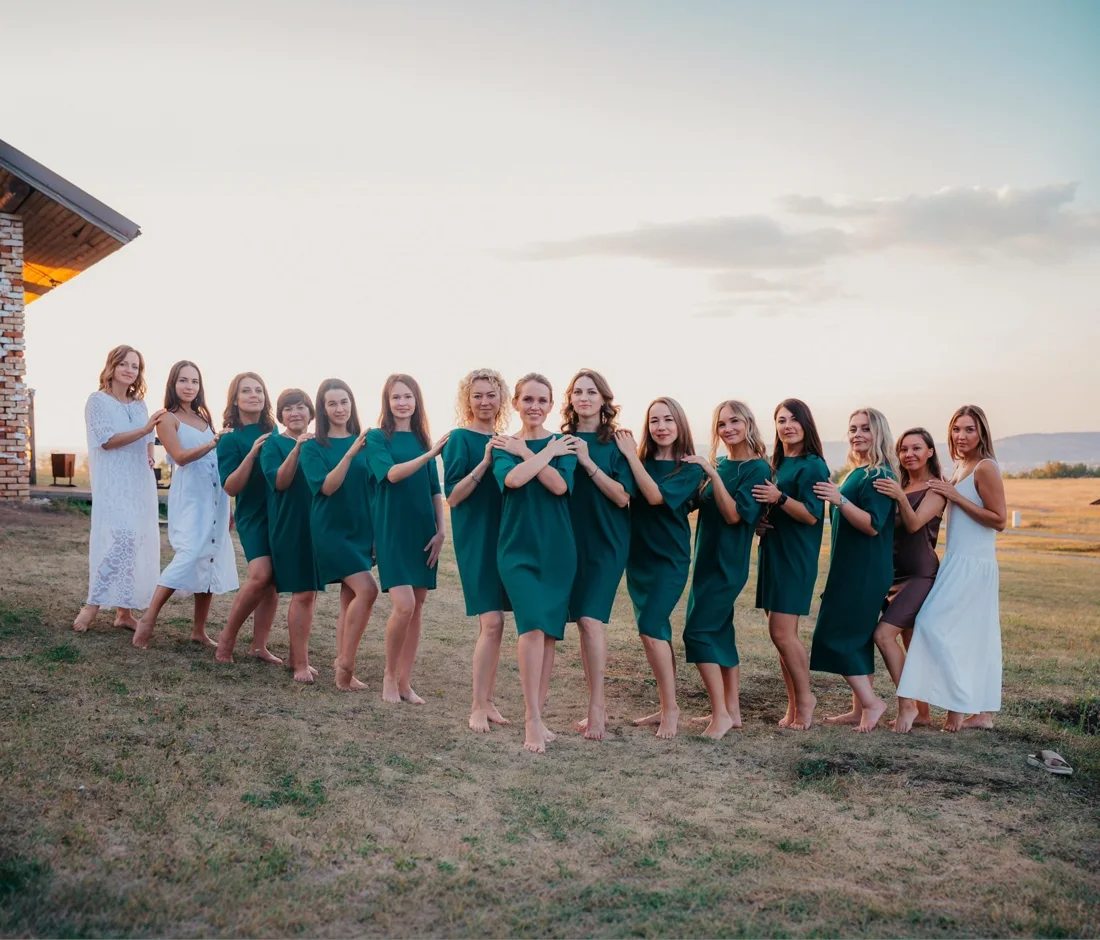
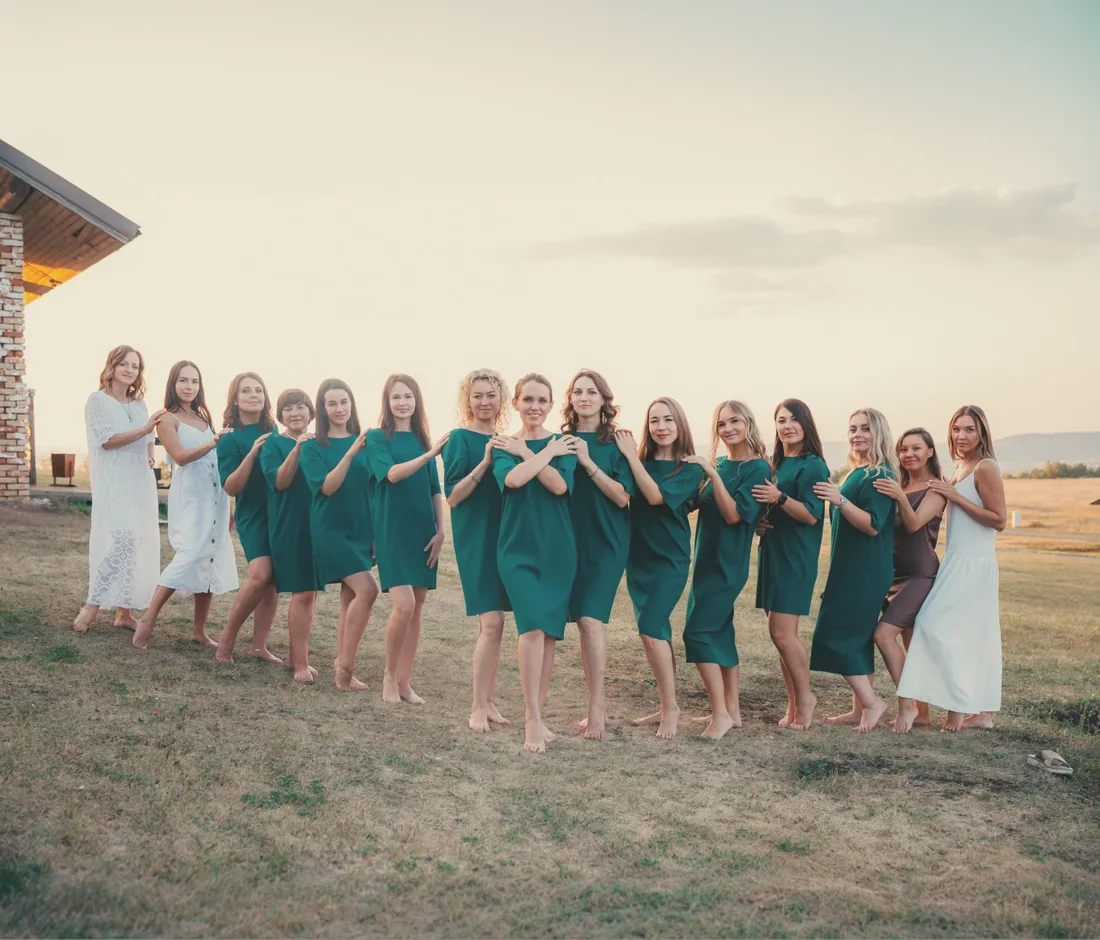
Фото партнёров: тёплая цветокоррекция под остальные карточки

diff --git a/src/content.ts b/src/content.ts
@@ -92,7 +92,7 @@ export const products = {
       tags: ["Для партнёров"],
       name: "Хотите представлять Витграсс в своём городе?",
       // исходник был круглым на белом — кадр достроен (небо сверху, края), все пятеро целиком
-      img: "/img/p-partners-alt.webp", // пробуем групповое фото из макета 557:1342 (прежнее — p-partners-full.webp)
+      img: "/img/p-partners-alt.webp", // групповое фото из макета 557:1342, цветокоррекция под остальные карточки: теплее, светлее тени, небо кремовое (прежнее — p-partners-full.webp)
       cta: "Узнать подробнее",
       href: links.partner,
       accent: true,
